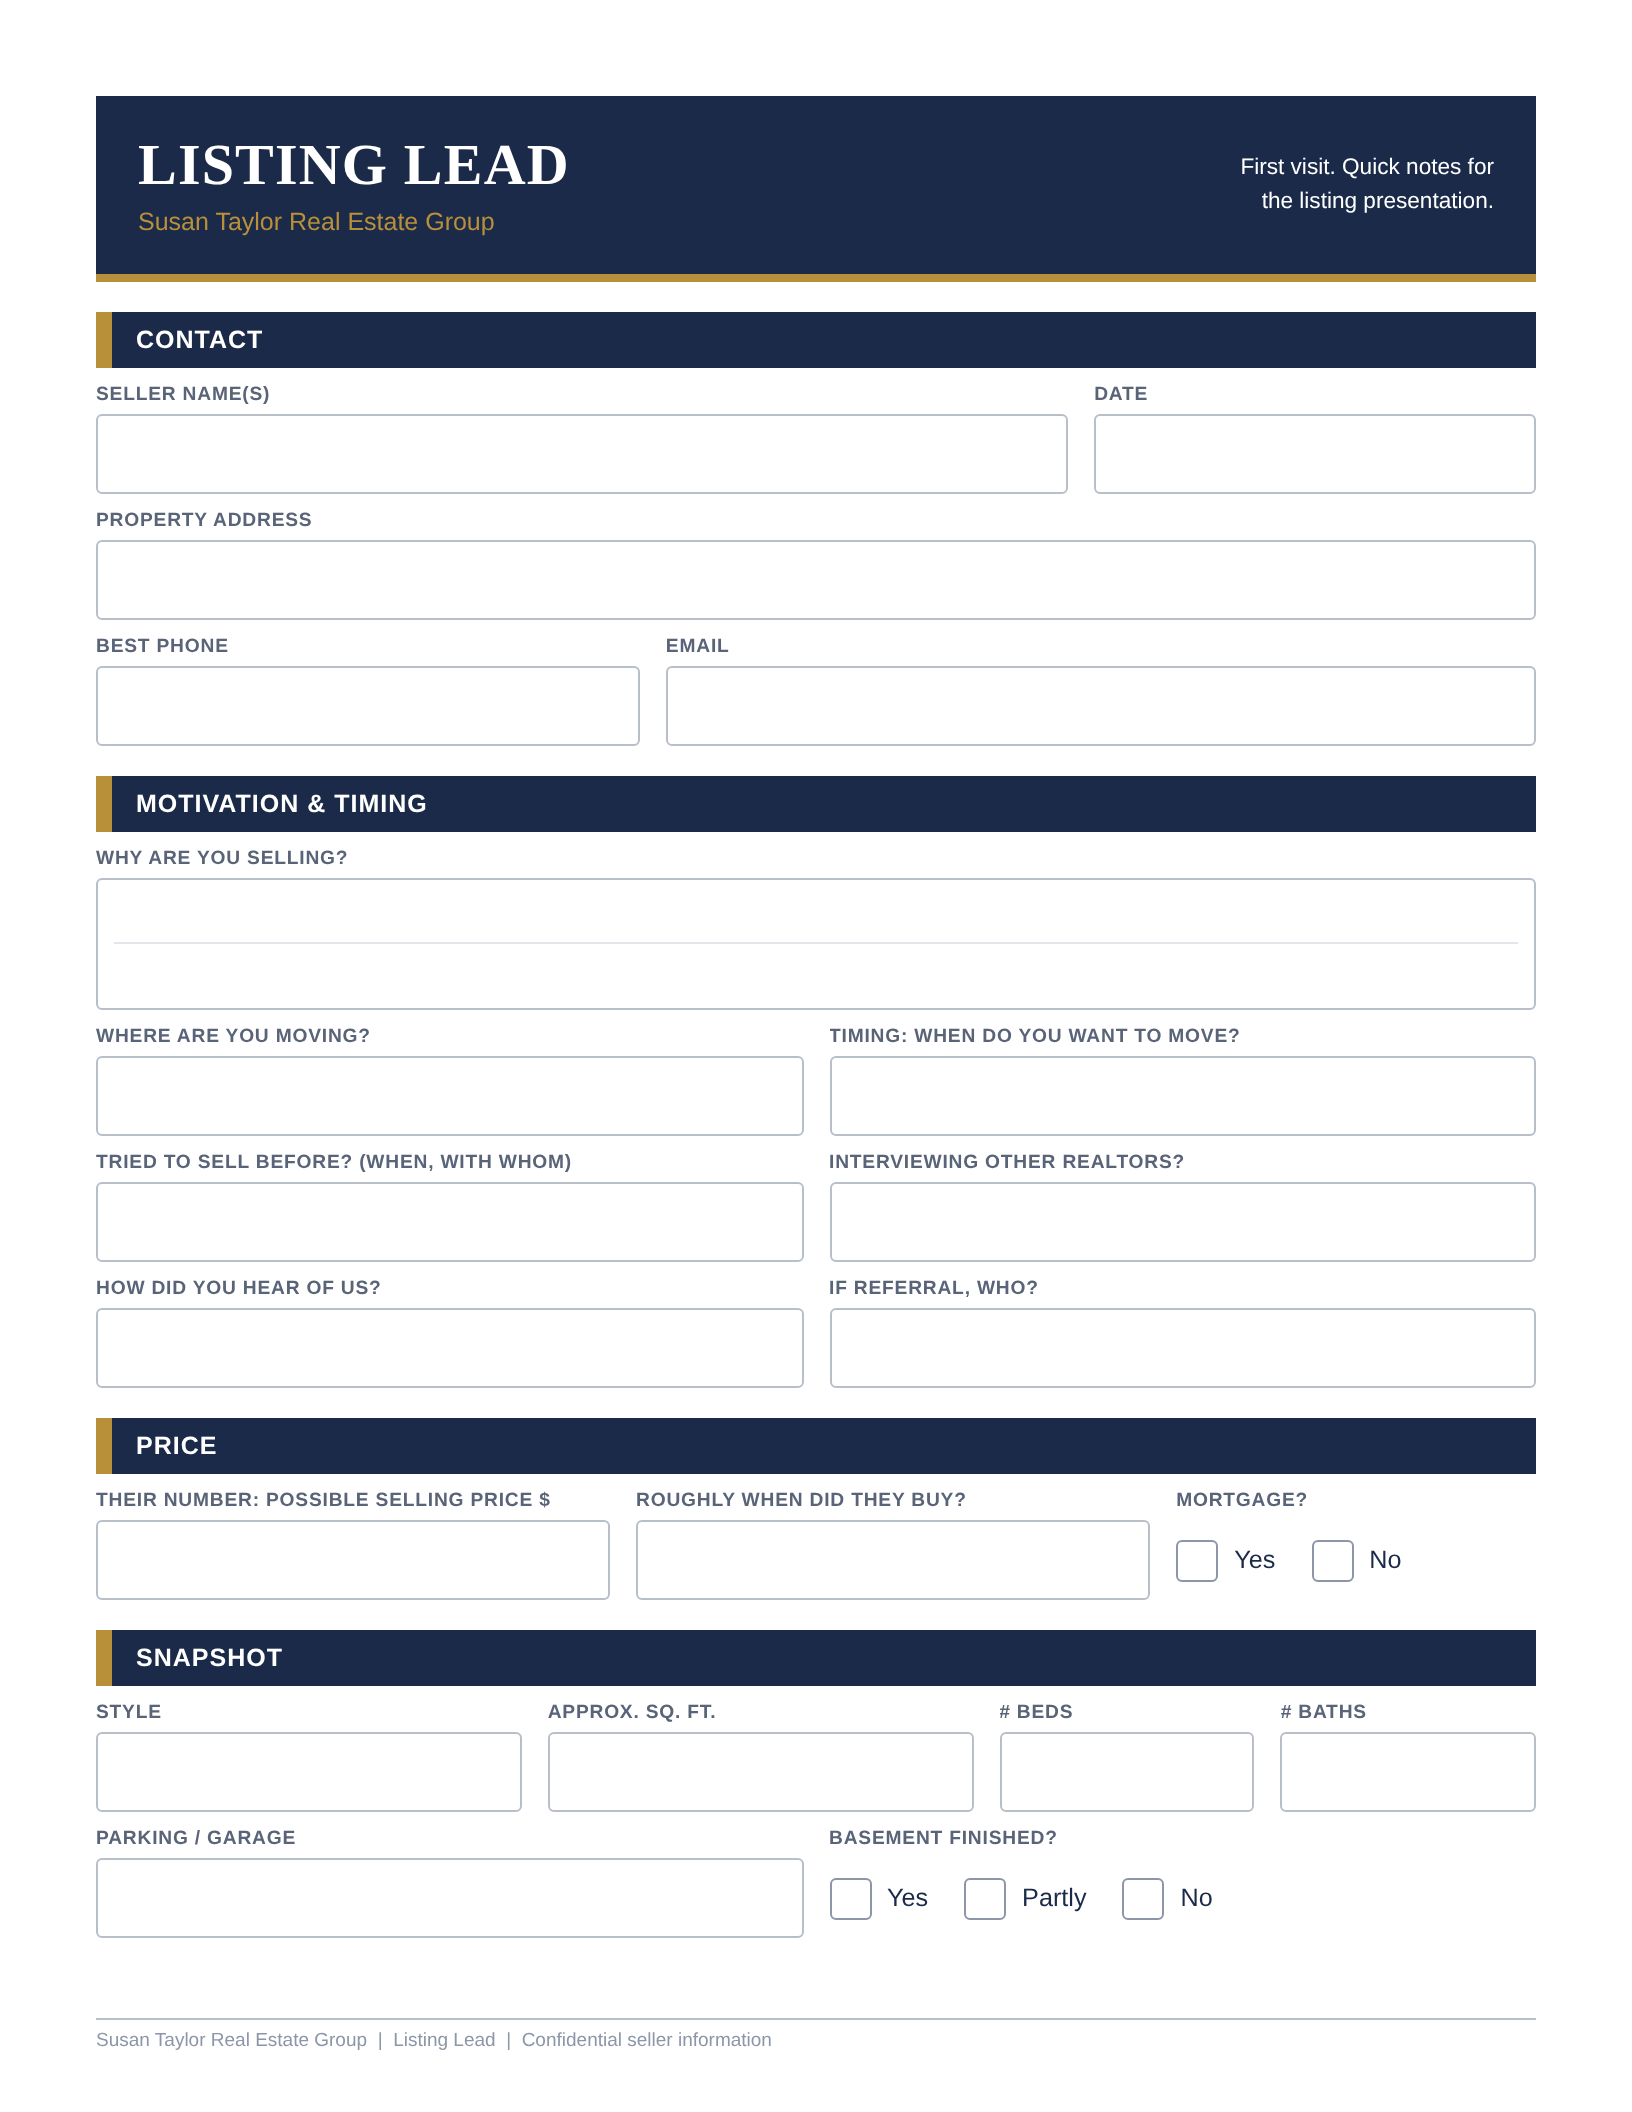
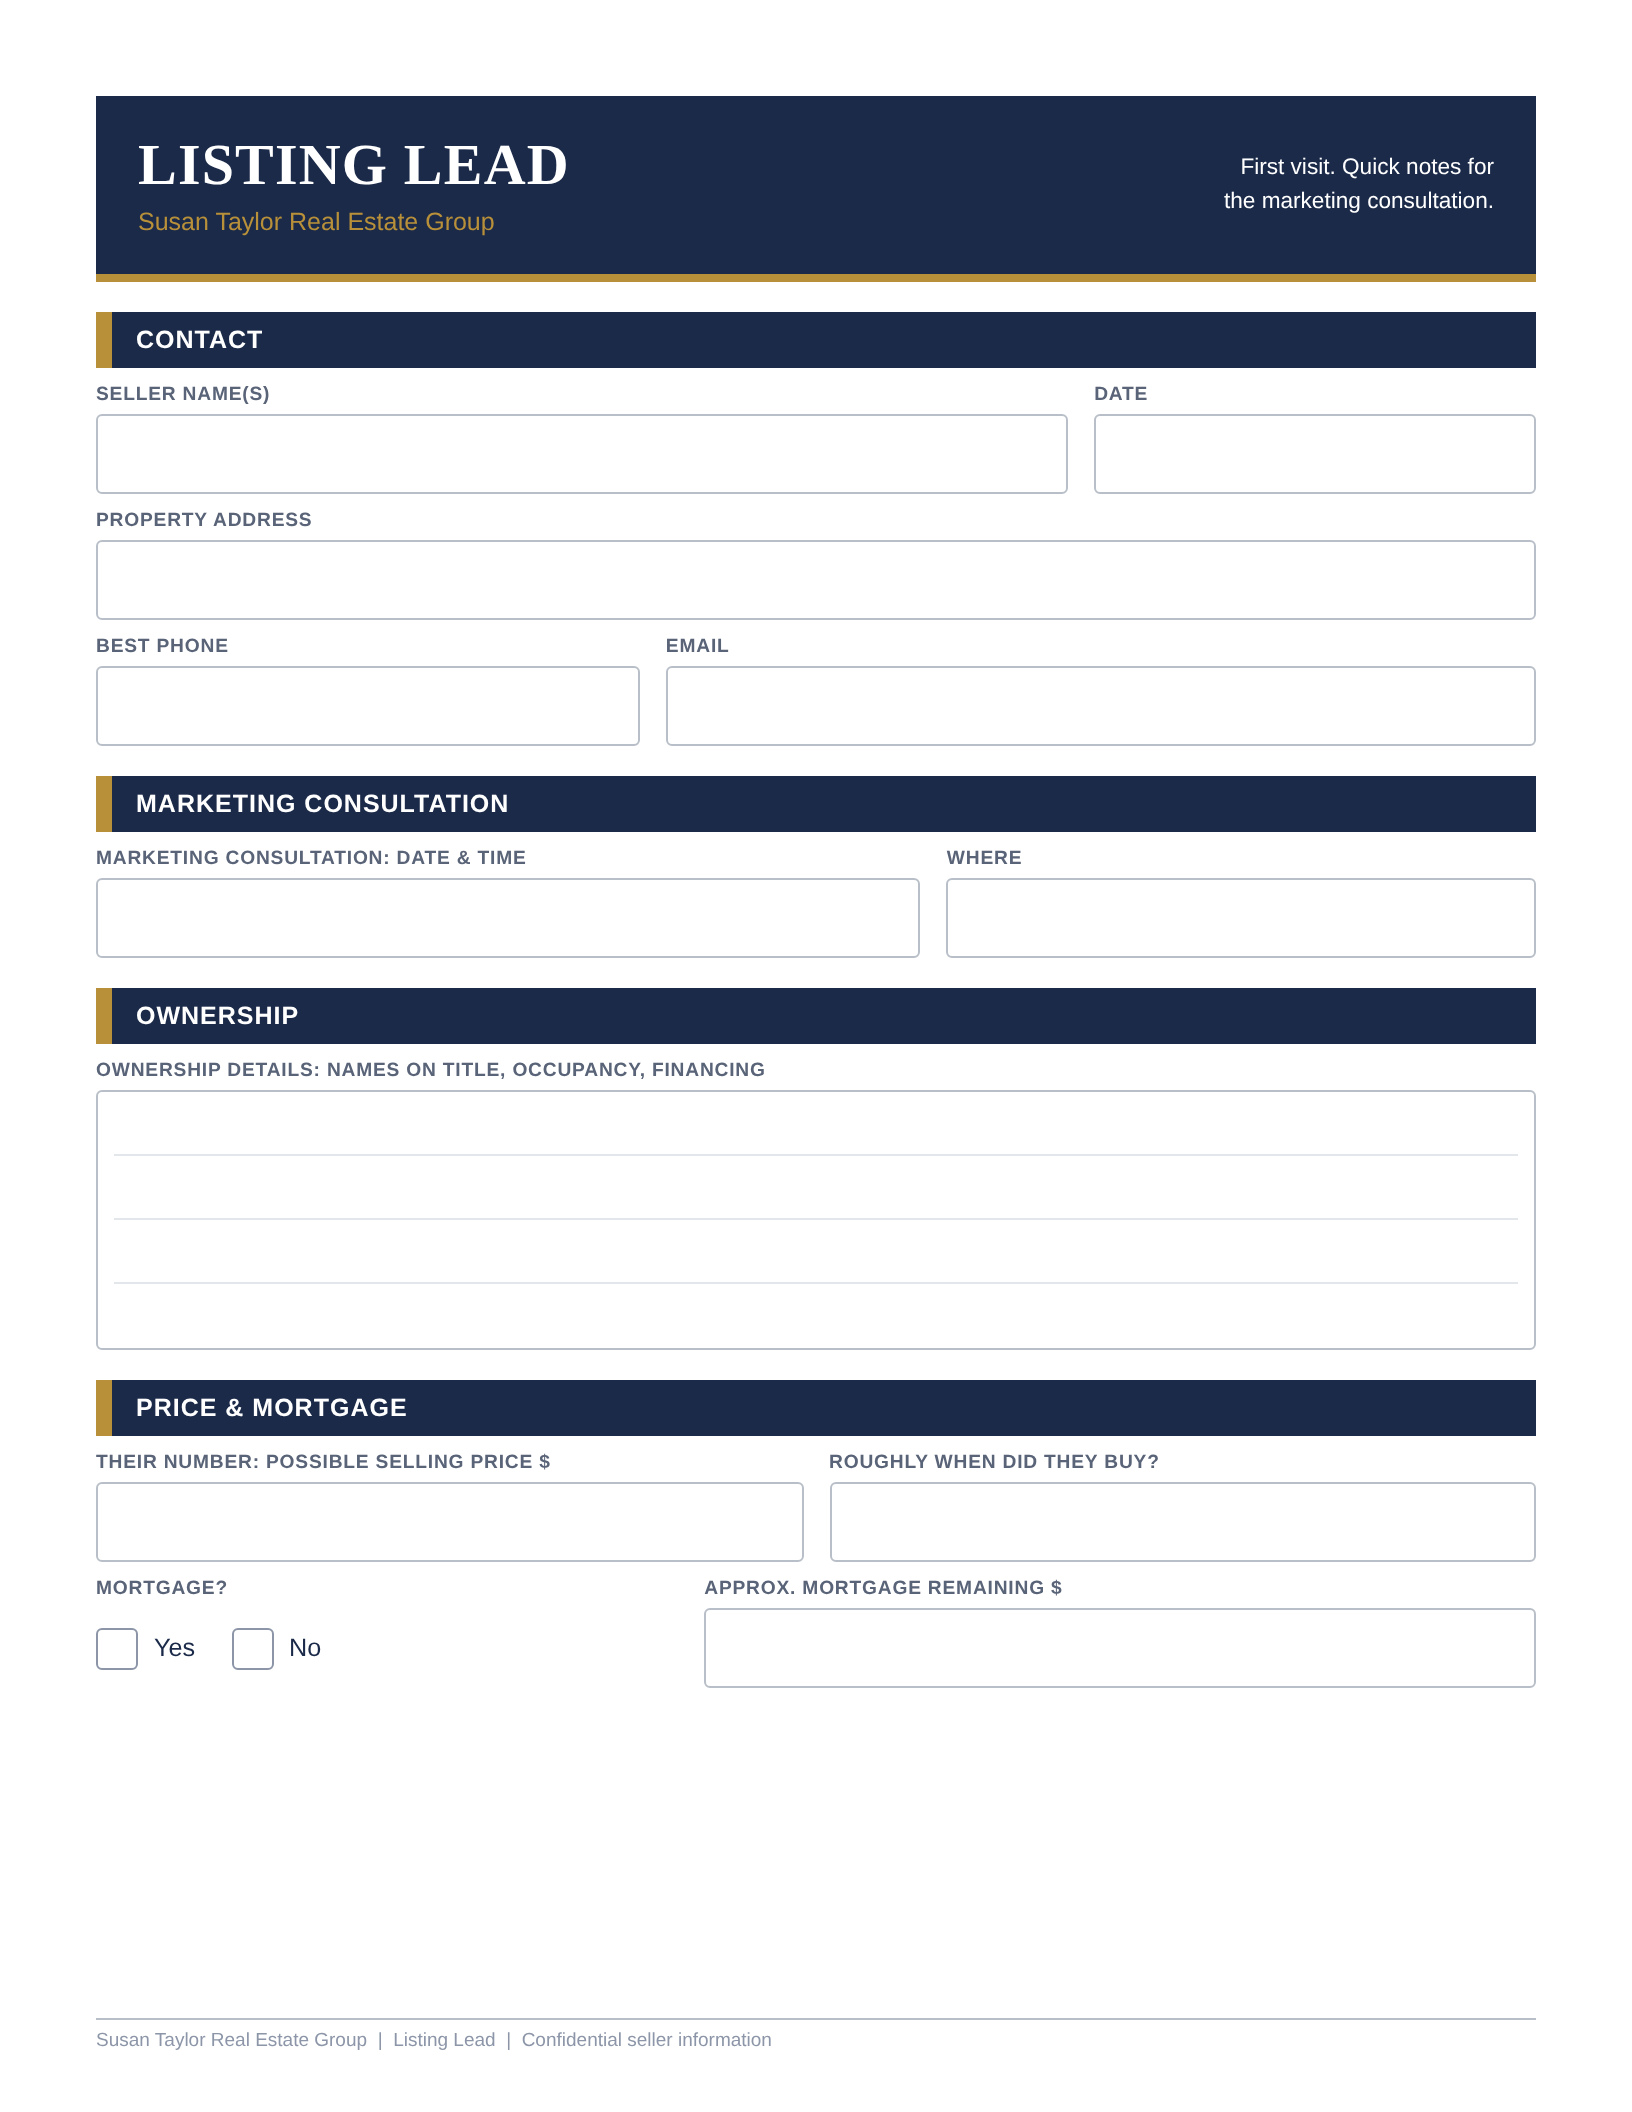
Sue's feedback: marketing consultation, ownership, sq ft source, photo mosaic
Listing Lead page 1 now has Marketing consultation date/time, Ownership
details, and Approx. mortgage remaining; page 2 adds Age of home and a
Sq. ft. source picker (MPAC, Owner, Plans, Estimate, Other). Room photo
boxes show up to four photos at once. The back button reads Save & close.
New fields carry into Listing Details.

Claude-Session: https://claude.ai/code/session_01CeRbRrmCaVeMYwMfHpdKm6

diff --git a/app.js b/app.js
@@ -326,6 +326,24 @@
     try { ta.setSelectionRange(ta.value.length, ta.value.length); } catch (e) {}
   }
 
+  function openChoicePicker(f) {
+    const body = openModal(f.label), curV = cur.text[f.id] || "";
+    const grid = el("div", "roomgrid"); body.append(grid);
+    for (const o of (f.options || []).filter(o => o !== "Other")) {
+      const b = el("button", "rchoice" + (curV === o ? " sel" : ""), esc(o));
+      b.onclick = () => { closeModal(); setText(f, o); }; grid.append(b);
+    }
+    if ((f.options || []).includes("Other")) {
+      body.append(el("div", "lbl2", "Other: type or dictate"));
+      const ta = el("textarea", "dictate"); ta.rows = 1; ta.value = f.options.includes(curV) ? "" : curV;
+      ta.setAttribute("enterkeyhint", "done"); body.append(ta);
+      const use = el("button", "big gold", "Use this"); body.append(use);
+      use.onclick = () => { closeModal(); setText(f, ta.value.trim() || "Other"); };
+      ta.addEventListener("keydown", e => { if (e.key === "Enter") { e.preventDefault(); use.click(); } });
+    }
+    if (curV) { const clr = el("button", "big light", "Clear"); body.append(clr); clr.onclick = () => { closeModal(); setText(f, ""); }; }
+  }
+
   /* ---------------- rooms ---------------- */
   async function addRoom() {
     cur.rooms++; await DB.set(`d:${cur.meta.id}:rooms`, cur.rooms); touch();
@@ -389,6 +407,7 @@
       const f = fieldAt(p.key, toSheet(p, e)); if (!f) return;
       if (f.kind === "check") setText(f, cur.text[f.id] ? "" : "x");
       else if (f.kind === "room") openRoomPicker(f.room);
+      else if (f.kind === "choice") openChoicePicker(f);
       else openTextEditor(f);
     });
     c.addEventListener("pointerdown", e => {
@@ -453,16 +472,27 @@
 
   /* ---------------- photos (each box holds a list) ---------------- */
   let pendingSlot = null, pendingSource = "";
+  // Up to 4 tiles: 1 fills; 2 side by side; 3 = big left + 2 stacked; 4+ = 2x2 (last tile shows +N)
+  function mosaic(n, x, y, w, h, g) {
+    if (n <= 1) return [[x, y, w, h]];
+    const hw = (w - g) / 2, hh = (h - g) / 2;
+    if (n === 2) return [[x, y, hw, h], [x + hw + g, y, hw, h]];
+    if (n === 3) return [[x, y, hw, h], [x + hw + g, y, hw, hh], [x + hw + g, y + hh + g, hw, hh]];
+    return [[x, y, hw, hh], [x + hw + g, y, hw, hh], [x, y + hh + g, hw, hh], [x + hw + g, y + hh + g, hw, hh]];
+  }
   function renderSlot(id) {
     const b = document.querySelector(`.slot[data-id="${id}"]`); if (!b) return;
     (cur.photoUrls[id] || []).forEach(u => URL.revokeObjectURL(u)); delete cur.photoUrls[id];
     const list = cur.photos[id] || [];
     if (list.length) {
       const urls = cur.photoUrls[id] = list.map(x => URL.createObjectURL(x));
-      b.innerHTML = `<img alt="" draggable="false" src="${urls[0]}"><span class="addchip">＋</span>${list.length > 1 ? `<span class="badge">+${list.length - 1}</span>` : ""}`;
+      const tiles = mosaic(list.length, 0, 0, 100, 100, list.length > 1 ? 2 : 0);
+      b.innerHTML = tiles.map((t, i) => `<span class="tile" style="left:${t[0]}%;top:${t[1]}%;width:${t[2]}%;height:${t[3]}%"><img alt="" draggable="false" src="${urls[i]}">${
+        i === 3 && list.length > 4 ? `<span class="more">+${list.length - 4}</span>` : ""}</span>`).join("") + `<span class="addchip">＋</span>`;
       b.classList.add("has"); b.style.background = "";
-      const im = b.querySelector("img");
-      im.onload = () => { if (im.naturalWidth / im.naturalHeight > WIDE) { im.style.objectFit = "contain"; b.style.background = "#F1F3F6"; } };
+      b.querySelectorAll(".tile img").forEach(im => {
+        im.onload = () => { if (im.naturalWidth / im.naturalHeight > WIDE) { im.style.objectFit = "contain"; im.parentNode.style.background = "#F1F3F6"; } };
+      });
     } else {
       const s = slotById(id);
       b.innerHTML = `<span class="empty">${ICON_CAM}<span>${s && s.room ? "Tap to add photos" : "Tap to add photos"}</span></span>`;
@@ -595,16 +625,19 @@
     }
     for (const s of slotsOn(p.key)) {
       const list = cur.photos[s.id] || []; if (!list.length) continue;
-      const img = await loadImg(cur.photoUrls[s.id][0]);
       const bx = s.x * scale, by = s.y * scale, bw = s.w * scale, bh = s.h * scale;
-      drawPhotoInBox(ctx, img, bx, by, bw, bh);
-      ctx.strokeStyle = "#B9BFC9"; ctx.lineWidth = scale * 0.75; ctx.strokeRect(bx, by, bw, bh);
-      if (list.length > 1) {
-        const t = `+${list.length - 1}`; ctx.font = `bold ${12 * scale}px ${FONT}`; const tw = ctx.measureText(t).width;
-        const bw2 = tw + 14 * scale, bh2 = 20 * scale, x2 = bx + bw - bw2 - 6 * scale, y2 = by + bh - bh2 - 6 * scale;
-        ctx.fillStyle = "#1B2A49"; ctx.beginPath(); ctx.roundRect ? ctx.roundRect(x2, y2, bw2, bh2, 10 * scale) : ctx.rect(x2, y2, bw2, bh2); ctx.fill();
-        ctx.fillStyle = "#fff"; ctx.textBaseline = "middle"; ctx.fillText(t, x2 + 7 * scale, y2 + bh2 / 2); ctx.textBaseline = "alphabetic";
+      ctx.fillStyle = "#fff"; ctx.fillRect(bx, by, bw, bh);
+      const tiles = mosaic(list.length, bx, by, bw, bh, list.length > 1 ? 2 * scale : 0);
+      for (let i = 0; i < tiles.length; i++) {
+        const [tx, ty, tw, th] = tiles[i];
+        drawPhotoInBox(ctx, await loadImg(cur.photoUrls[s.id][i]), tx, ty, tw, th);
+        if (i === 3 && list.length > 4) {
+          ctx.fillStyle = "rgba(27,42,73,.6)"; ctx.fillRect(tx, ty, tw, th);
+          ctx.fillStyle = "#fff"; ctx.font = `bold ${Math.min(th * 0.4, 22 * scale)}px ${FONT}`; ctx.textAlign = "center"; ctx.textBaseline = "middle";
+          ctx.fillText(`+${list.length - 4}`, tx + tw / 2, ty + th / 2); ctx.textAlign = "left"; ctx.textBaseline = "alphabetic";
+        }
       }
+      ctx.strokeStyle = "#B9BFC9"; ctx.lineWidth = scale * 0.75; ctx.strokeRect(bx, by, bw, bh);
     }
     drawTexts(ctx, p.key, scale);
     for (const s of cur.strokes[p.key] || []) drawStroke(ctx, s, scale);
@@ -700,6 +733,7 @@
     "seller-name-s": "seller-name-s", "property-address": "property-address", "best-phone": "mobile", "email": "email-1",
     "mortgage-yes": "current-financing-on-the-property-yes", "mortgage-no": "current-financing-on-the-property-no",
     "style": "style", "approx-sq-ft": "approx-size-sq-ft", "beds": "bedrooms", "baths": "baths", "parking-garage": "garage",
+    "age-of-home": "approx-age", "approx-mortgage-remaining": "approx-balance",
   };
   const BASEMENT = { "basement-finished-yes": "Finished", "basement-finished-partly": "Partly finished", "basement-finished-no": "Unfinished" };
   function strokeCentre(st) {
@@ -750,6 +784,11 @@
       }
       n++;
     }
+    if (lText["sq-ft-source"]) {
+      text["approx-size-sq-ft"] = text["approx-size-sq-ft"] ? `${text["approx-size-sq-ft"]} (${lText["sq-ft-source"]})` : `Source: ${lText["sq-ft-source"]}`; n++;
+    }
+    const own = lText["ownership-details-names-on-title-occupancy-financing"];
+    if (own) { extras.unshift(`Ownership (from Lead): ${own}`); }
     if (extras.length) text["notes"] = extras.join("\n");
     if (!text["property-address"]) { const lead = docs.find(d => d.id === leadId); if (lead && lead.name && lead.name !== "Untitled") text["property-address"] = lead.name; }
     await DB.set(`d:${detailsId}:text`, text); await DB.set(`d:${detailsId}:ink`, ink);

diff --git a/app.css b/app.css
@@ -78,7 +78,8 @@ body.editing .home-only { display: none !important; }
 .doc-title { background: transparent; border: 0; color: #fff; font-size: 15px; font-weight: 600; max-width: 22vw;
   white-space: nowrap; overflow: hidden; text-overflow: ellipsis; text-align: left; padding: 0 4px; }
 .doc-title small { display: block; color: var(--gold); font-weight: 700; font-size: 10.5px; letter-spacing: .6px; }
-@media (max-width: 900px) { #bBack span { display: none; } .doc-title { max-width: 18vw; } }
+@media (max-width: 900px) { .doc-title { max-width: 16vw; } }
+@media (max-width: 640px) { #bBack span { display: none; } }
 
 #home { max-width: 860px; margin: 0 auto; padding: calc(var(--bar-h) + env(safe-area-inset-top) + 24px) 16px 60px; }
 .newrow { display: grid; grid-template-columns: 1fr 1fr; gap: 14px; }
@@ -137,3 +138,9 @@ textarea.dictate { width: 100%; font: 19px/1.4 -apple-system, "Helvetica Neue", 
   font-size: 20px; line-height: 30px; text-align: center; font-weight: 700; }
 .strip { display: flex; gap: 6px; overflow-x: auto; }
 .strip img { height: 70px; border-radius: 6px; }
+
+/* photo mosaic */
+.slot .tile { position: absolute; overflow: hidden; background: #fff; }
+.slot .tile img { width: 100%; height: 100%; object-fit: cover; display: block; }
+.slot .tile .more { position: absolute; inset: 0; background: rgba(27,42,73,.6); color: #fff; font-weight: 800;
+  font-size: clamp(14px, 2.2vw, 24px); display: flex; align-items: center; justify-content: center; }

diff --git a/sw.js b/sw.js
@@ -1,5 +1,5 @@
 // Offline cache so the app opens at a listing with no signal. Bump VERSION on every deploy.
-const VERSION = "stg-field-notes-v7";
+const VERSION = "stg-field-notes-v8";
 const ASSETS = ["./", "app.css","app.js","details-layout.json","details-page-1.png","details-page-2.png","details-page-3.png","details-page-4.png","details-page-5.png","details-page-6.png","icon-180.png","icon-192.png","icon-512.png","index.html","jspdf.umd.min.js","lead-layout.json","lead-page-1.png","lead-page-2.png","lead-room-card.png","lead-rooms-page.png","manifest.webmanifest"];
 self.addEventListener("install", e => { e.waitUntil(caches.open(VERSION).then(c => c.addAll(ASSETS)).then(() => self.skipWaiting())); });
 self.addEventListener("activate", e => {

diff --git a/index.html b/index.html
@@ -18,8 +18,8 @@
 <header id="bar">
   <div class="home-only brand"><b>STG</b> Field Notes</div>
 
-  <button id="bBack" class="plain edit-only" aria-label="Back to forms">
-    <svg viewBox="0 0 24 24"><path d="M15 5l-7 7 7 7"/></svg><span>Forms</span></button>
+  <button id="bBack" class="plain edit-only" aria-label="Save and close">
+    <svg viewBox="0 0 24 24"><path d="M15 5l-7 7 7 7"/></svg><span>Save &amp; close</span></button>
   <button id="docTitle" class="doc-title edit-only" aria-label="Rename"></button>
   <div class="tools edit-only">
     <button id="tPen" class="tool on" aria-label="Pen">
